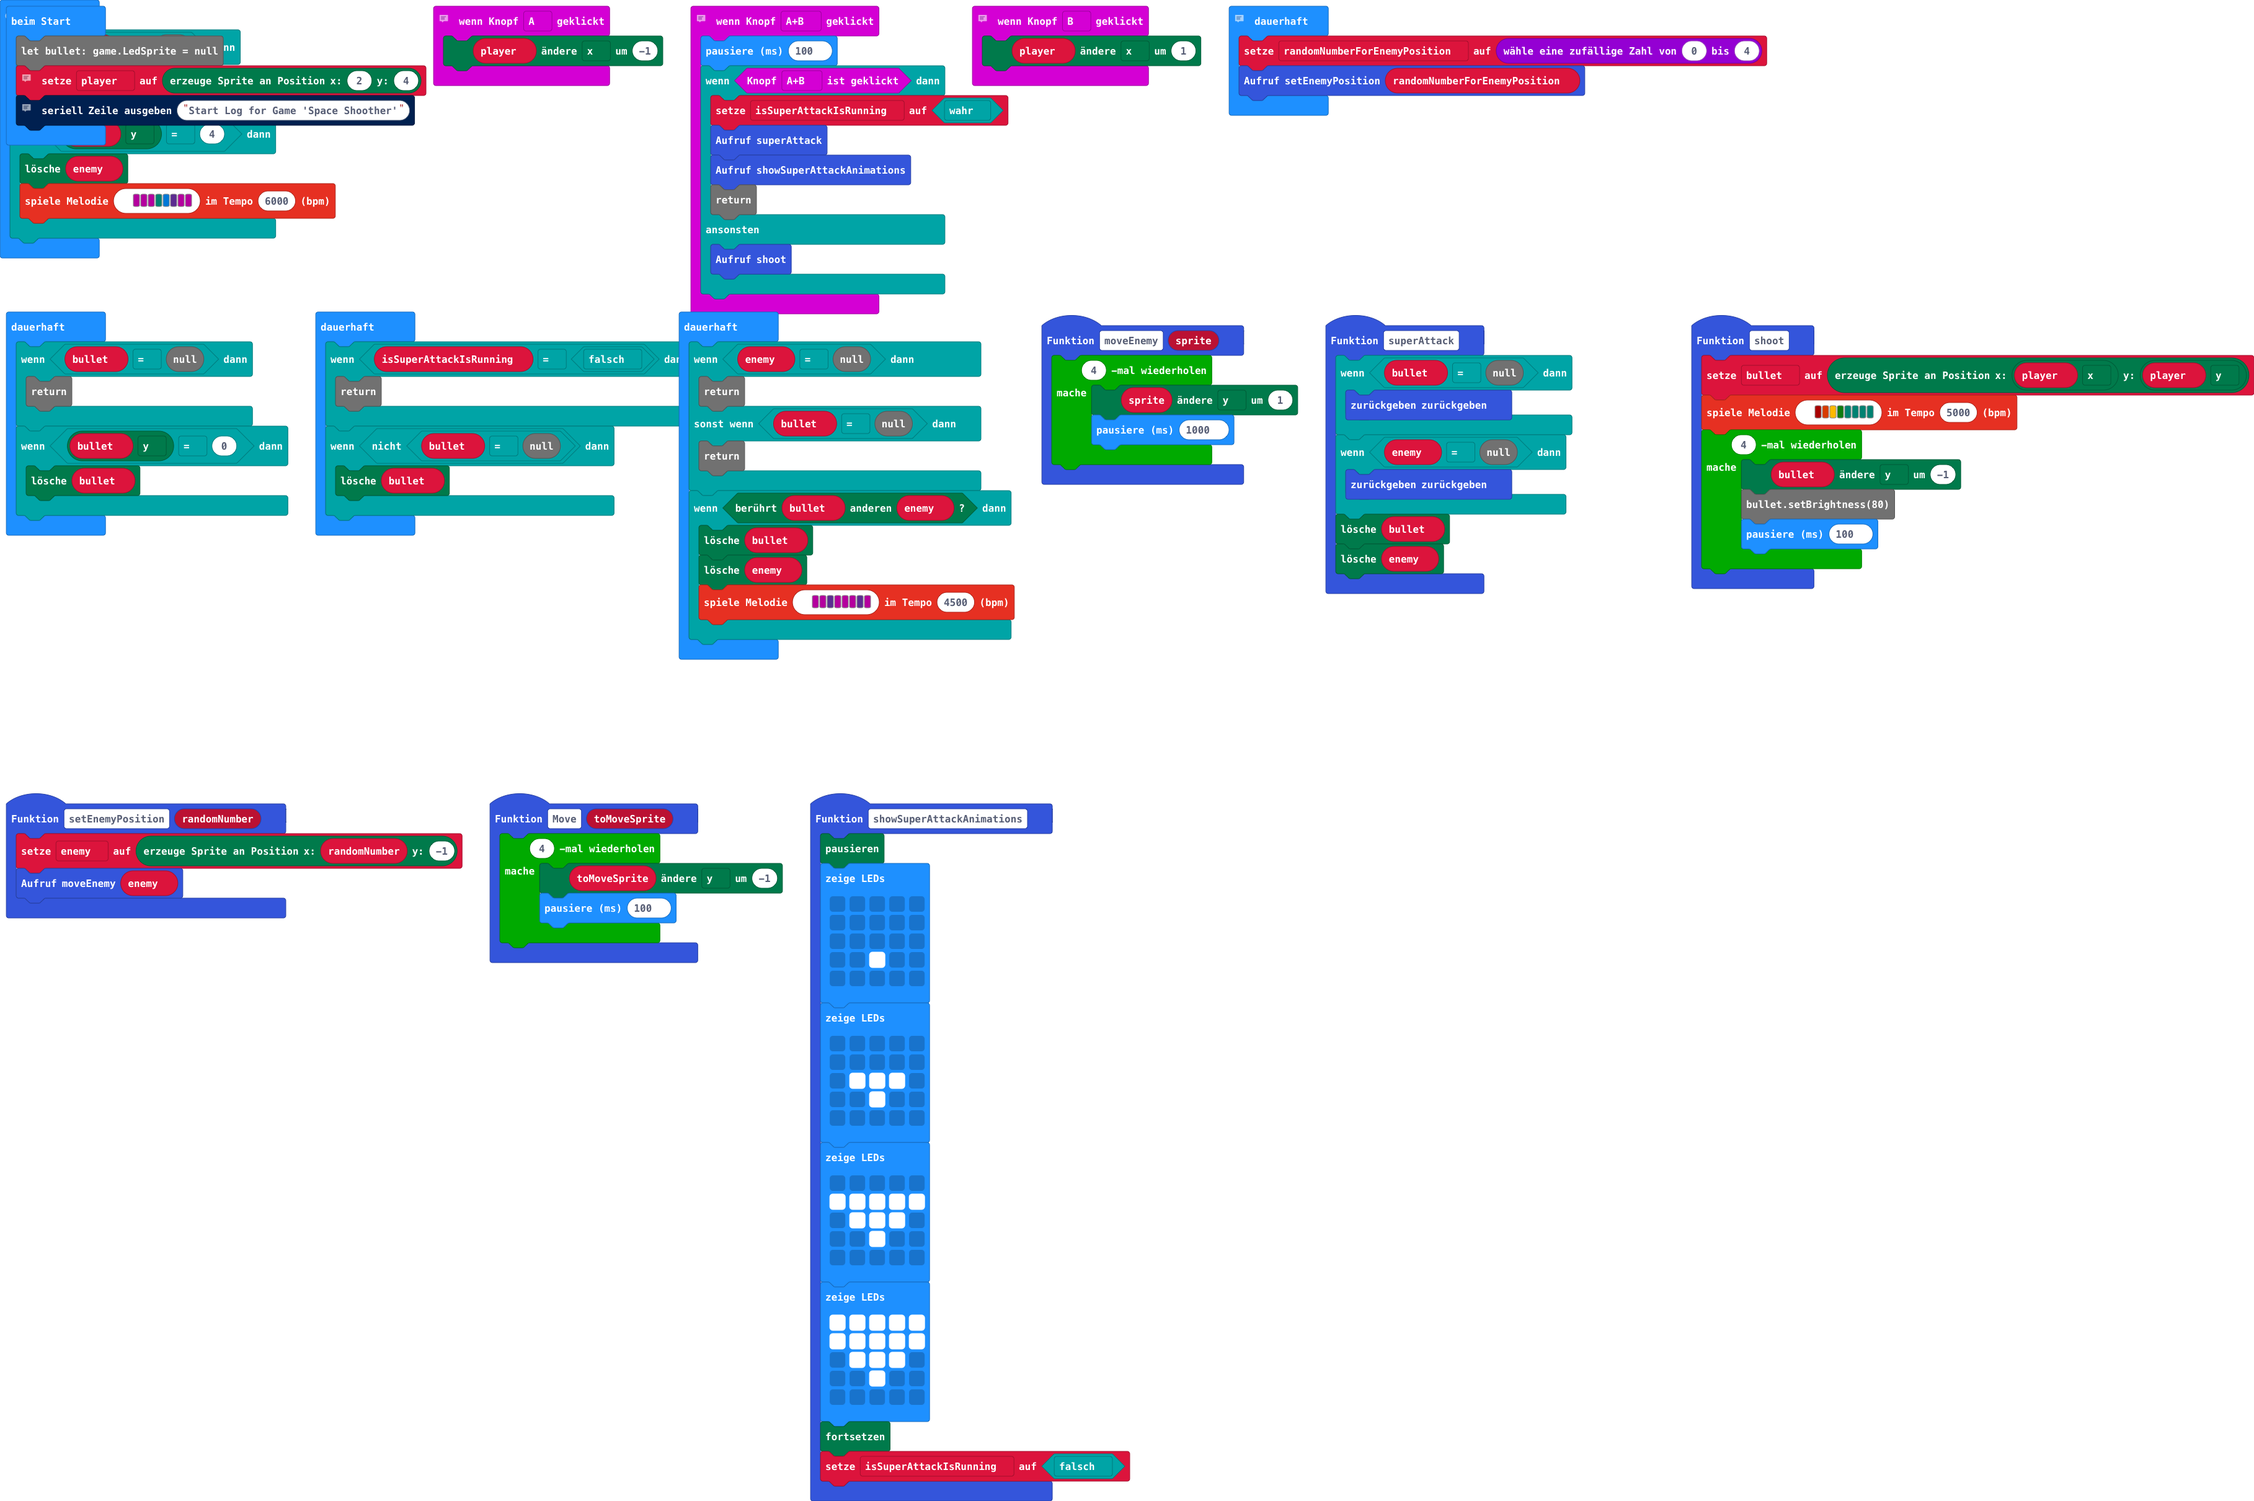
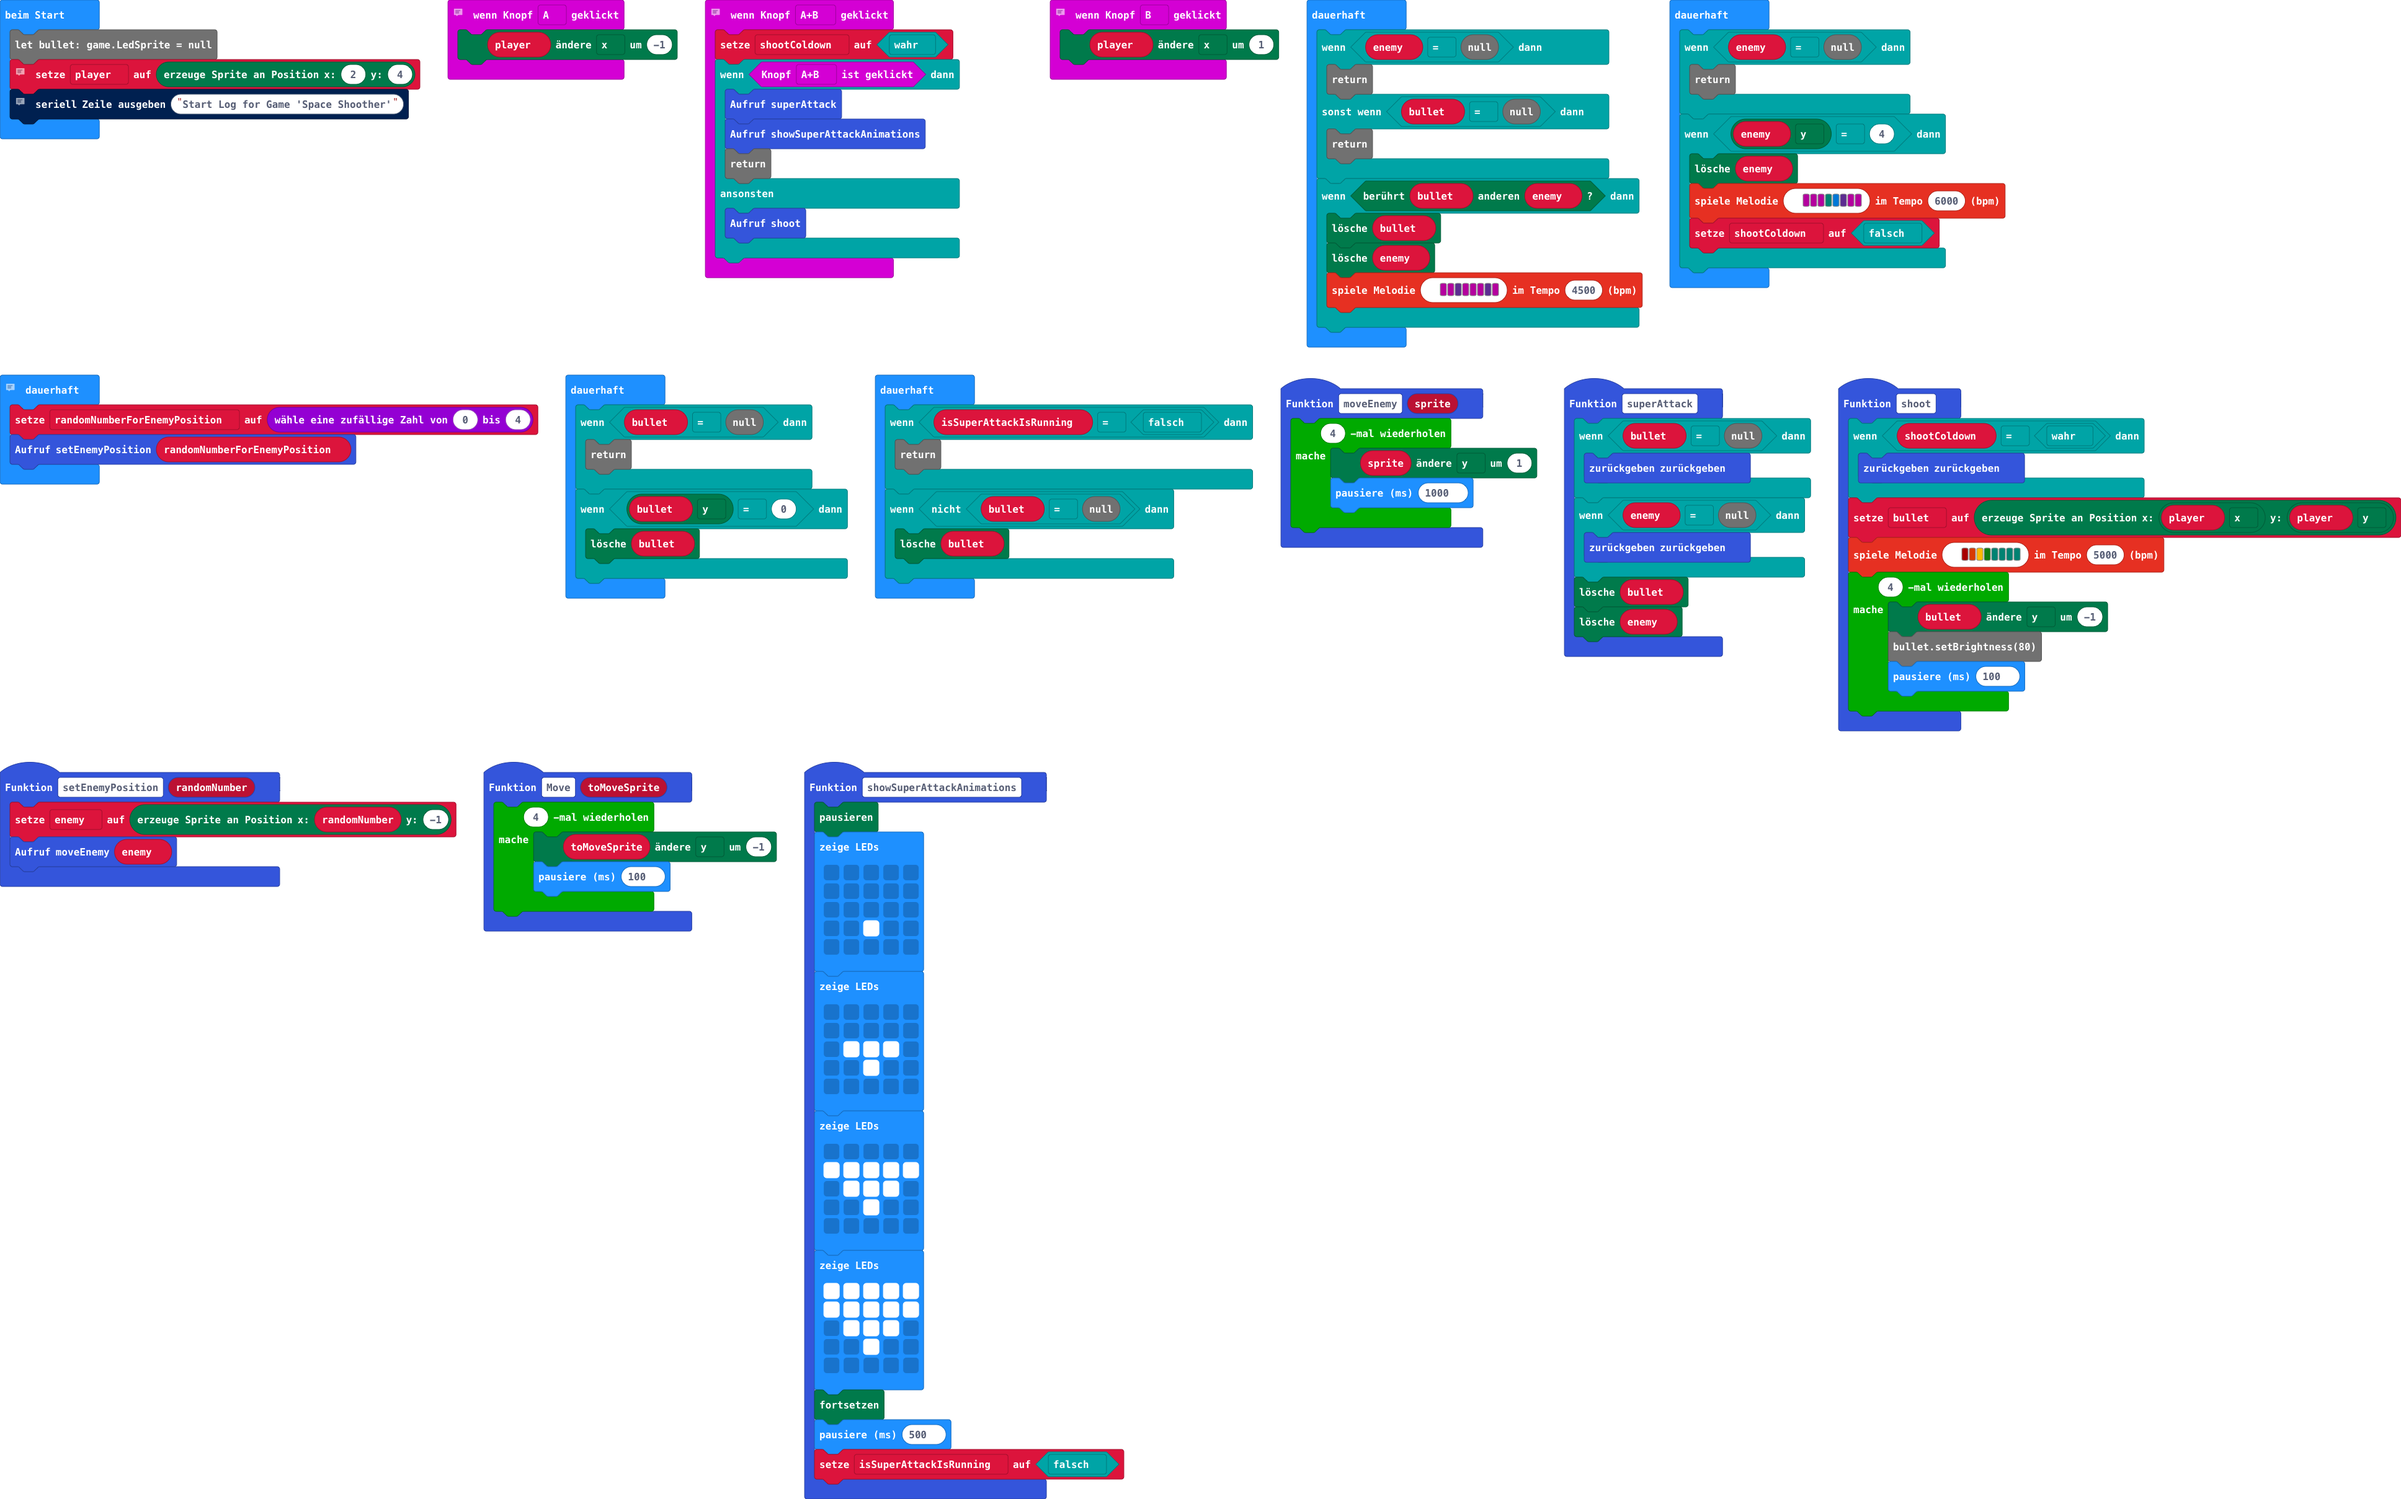
Aktualisiere main.blocks, main.ts

Changed region(s): [[0.0, 0.0, 1.0, 0.4963], [0.0, 0.4963, 0.4974, 1.0]]

diff --git a/main.ts b/main.ts
@@ -33,6 +33,7 @@ function showSuperAttackAnimations () {
         . . . . .
         `)
     game.resume()
+    basic.pause(500)
     isSuperAttackIsRunning = false
 }
 function moveEnemy (sprite: game.LedSprite) {
@@ -42,6 +43,9 @@ function moveEnemy (sprite: game.LedSprite) {
     }
 }
 function shoot () {
+    if (shootColdown == true) {
+        return
+    }
     bullet = game.createSprite(player.get(LedSpriteProperty.X), player.get(LedSpriteProperty.Y))
     music.playMelody("C5 B A G F F F F ", 5000)
     for (let index = 0; index < 4; index++) {
@@ -62,9 +66,8 @@ function superAttack () {
 }
 // Input for Button 'AB'
 input.onButtonPressed(Button.AB, function () {
-    basic.pause(100)
+    shootColdown = true
     if (input.buttonIsPressed(Button.AB)) {
-        isSuperAttackIsRunning = true
         superAttack()
         showSuperAttackAnimations()
         return
@@ -88,6 +91,7 @@ function setEnemyPosition (randomNumber: number) {
 }
 let randomNumberForEnemyPosition = 0
 let enemy: game.LedSprite = null
+let shootColdown = false
 let isSuperAttackIsRunning = false
 let player: game.LedSprite = null
 let bullet: game.LedSprite = null
@@ -98,10 +102,23 @@ serial.writeLine("Start Log for Game 'Space Shoother'")
 basic.forever(function () {
     if (enemy == null) {
         return
+    } else if (bullet == null) {
+        return
+    }
+    if (bullet.isTouching(enemy)) {
+        bullet.delete()
+        enemy.delete()
+        music.playMelody("C C D C C C D C ", 4500)
+    }
+})
+basic.forever(function () {
+    if (enemy == null) {
+        return
     }
     if (enemy.get(LedSpriteProperty.Y) == 4) {
         enemy.delete()
         music.playMelody("C C C F E D C C ", 6000)
+        shootColdown = false
     }
 })
 // Forever function for spawning Enemys with a random Position
@@ -123,17 +140,5 @@ basic.forever(function () {
     }
     if (!(bullet == null)) {
         bullet.delete()
-    }
-})
-basic.forever(function () {
-    if (enemy == null) {
-        return
-    } else if (bullet == null) {
-        return
-    }
-    if (bullet.isTouching(enemy)) {
-        bullet.delete()
-        enemy.delete()
-        music.playMelody("C C D C C C D C ", 4500)
     }
 })
